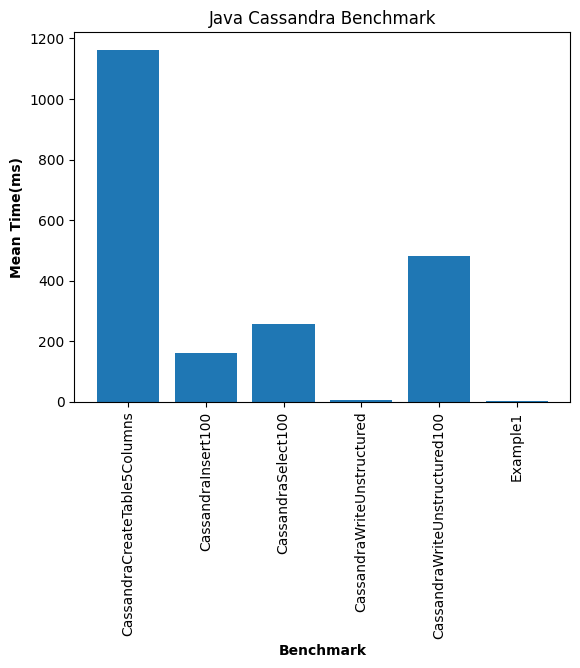
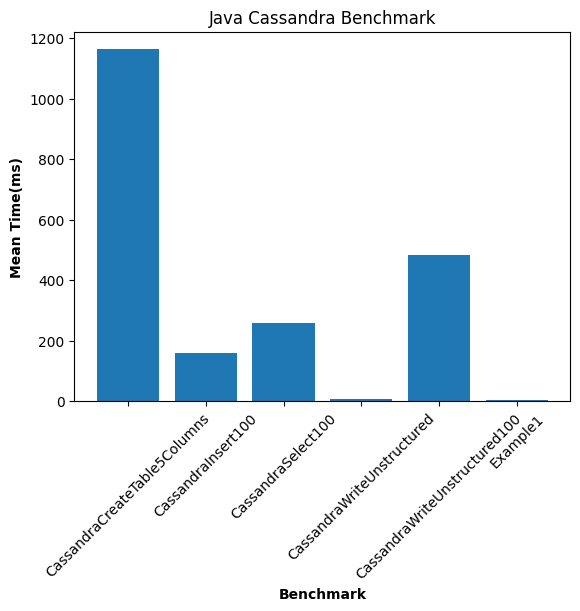
update plots

diff --git a/DataPlotter.py b/DataPlotter.py
@@ -22,7 +22,7 @@ class DataPlotter:
 
             ax.set_title(f'{lang.capitalize()} {self.db} Benchmark',
                     loc ='center',)
-            ax.set_xticklabels(title,rotation=90)
+            ax.set_xticklabels(title,rotation=0)
 
             plt.xlabel('Benchmark', fontweight ='bold')
             plt.ylabel('Mean Time(ms)', fontweight ='bold')
@@ -49,6 +49,7 @@ class DataPlotter:
             ax.set_xlabel('Benchmark')
             ax.set_ylabel('Mean time (ms)')
             ax.set_title(f'{self.db} Benchmarks')
+            plt.xticks(rotation=0)
             plt.savefig(fname, bbox_inches='tight')
             logging.info(f'Created plot {fname}')
         except Exception as e:
@@ -70,6 +71,7 @@ class DataPlotter:
             ax.set_xlabel('Benchmark')
             ax.set_ylabel('Time (ms)')
             ax.set_title(f'{self.db} {lang.capitalize()} Benchmarks')
+            plt.xticks(rotation=0)
             plt.savefig(fname, bbox_inches='tight')
             logging.info(f'Created plot {fname}')
 

diff --git a/plot_time_deltas.py b/plot_time_deltas.py
@@ -25,6 +25,7 @@ def plot_difference(d1, d2, colname, title, fname):
         ax.set_xlabel('Benchmark')
         ax.set_ylabel('Time (ms)')
         ax.set_title(title)
+        plt.xticks(rotation=0)
         plt.savefig(fname, bbox_inches='tight')
         print(f'Saved {fname}')
     except Exception as e:
@@ -70,6 +71,7 @@ def plot_db_difference(
         ax.set_xlabel('Benchmark')
         ax.set_ylabel('Time (ms)')
         ax.set_title(title)
+        plt.xticks(rotation=0)
         plt.savefig(fname, bbox_inches='tight')
         print(f'Saved {fname}')
     except Exception as e:
